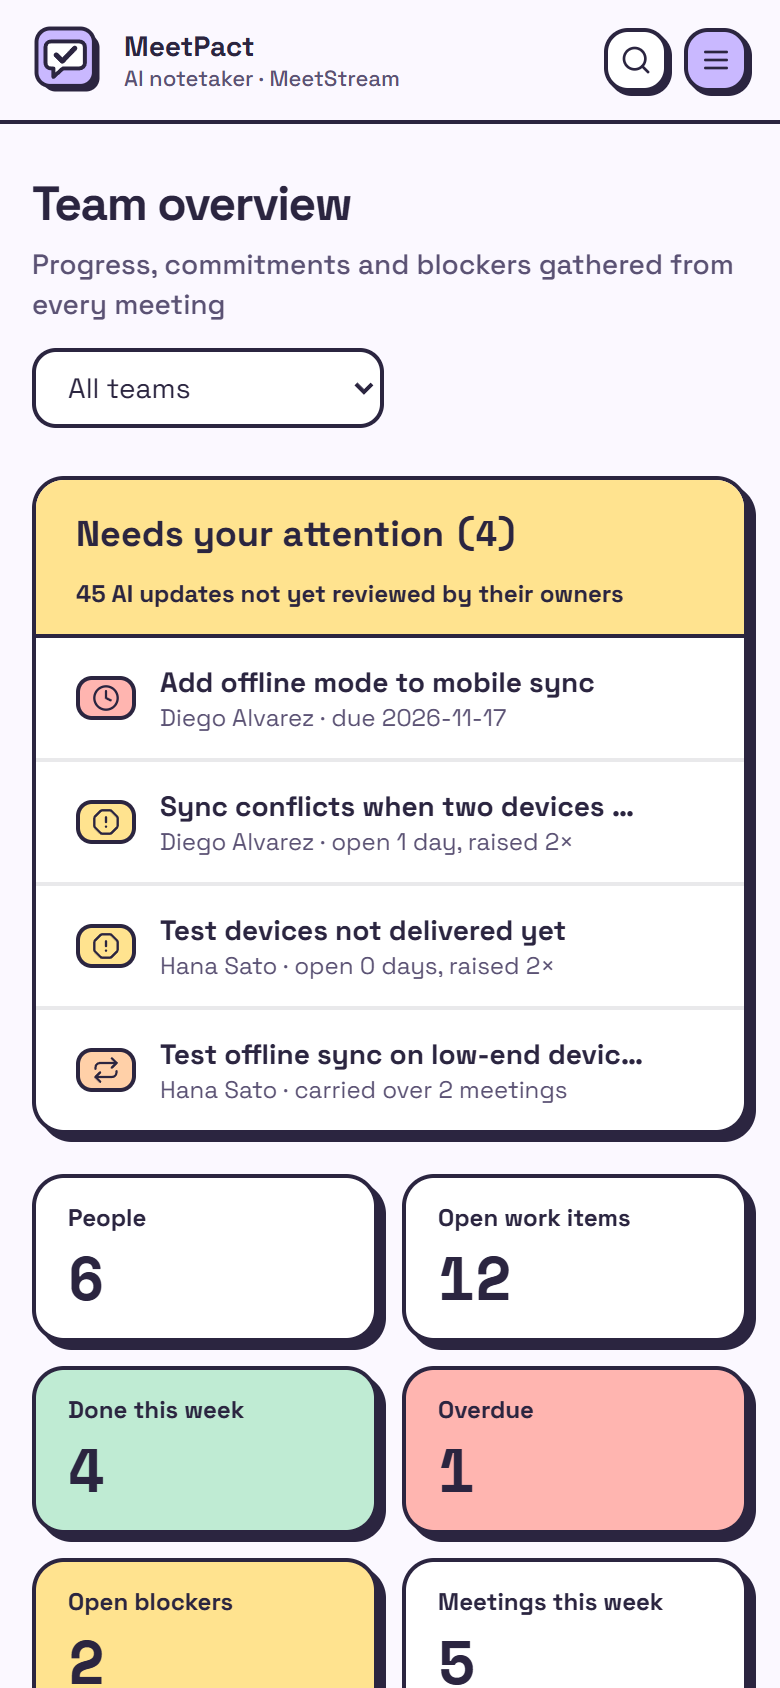
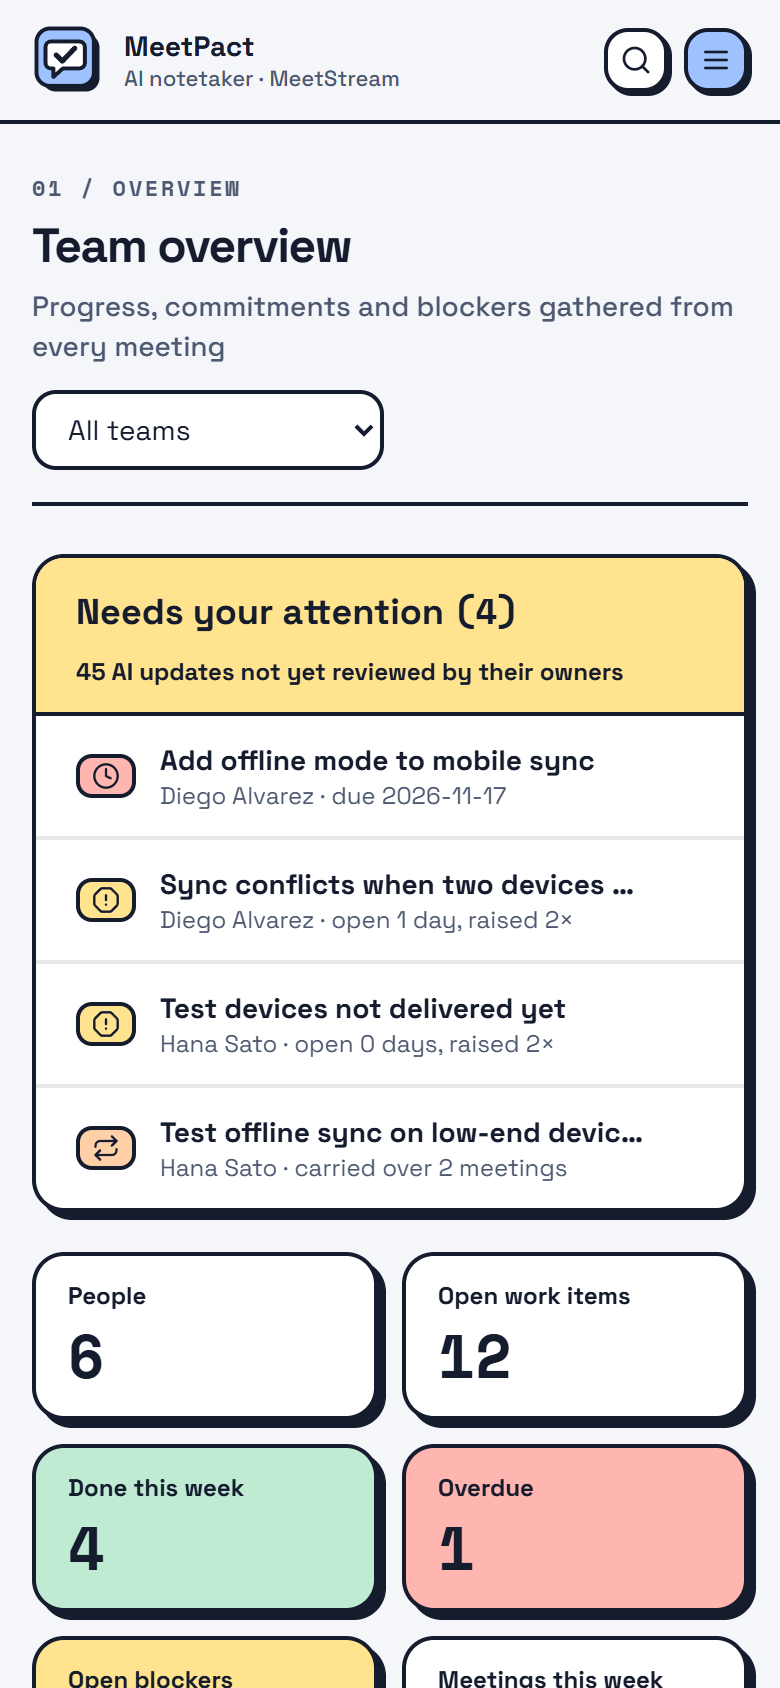
Cobalt mist palette with Swiss-grid page headers
- Brand colour is now soft cobalt (#9EC1FF) instead of lilac; ink is deep
  navy (#151C2E) for text, outlines and offset shadows; page and sidebar use
  cool blue-grey tints. Status colours keep their meanings.
- Swiss grid: every page header shows a mono section index ("03 / Work")
  above a flush-left title and closes with a 2px rule; the sidebar numbers
  its sections to match.
- Logo, favicon and README screenshots updated.

Changed region(s): [[0.0308, 0.0924, 0.9846, 1.0], [0.0308, 0.0, 0.1231, 0.0616], [0.8615, 0.0, 0.9538, 0.0616]]

diff --git a/frontend/tailwind.config.js b/frontend/tailwind.config.js
@@ -7,12 +7,12 @@ export default {
         sans: ['"Space Grotesk"', 'ui-sans-serif', 'system-ui', 'sans-serif'],
         mono: ['"Space Mono"', 'ui-monospace', 'SFMono-Regular', 'monospace'],
       },
-      // Soft & pastel neo-brutalism: hard offset shadows in a deep plum-ink
-      // instead of black, rounder corners, pastel fills.
+      // Soft Swiss-grid neo-brutalism ("Cobalt mist"): hard offset shadows in
+      // deep navy ink, rounded corners, pastel fills, strict grid.
       boxShadow: {
-        card: '4px 4px 0 0 #2B2540',
-        lift: '6px 6px 0 0 #2B2540',
-        press: '2px 2px 0 0 #2B2540',
+        card: '4px 4px 0 0 #151C2E',
+        lift: '6px 6px 0 0 #151C2E',
+        press: '2px 2px 0 0 #151C2E',
       },
       borderRadius: {
         DEFAULT: '0.5rem',
@@ -26,12 +26,12 @@ export default {
       },
       animation: { 'fade-up': 'fade-up 280ms cubic-bezier(0.2, 0.8, 0.2, 1) both', shimmer: 'shimmer 1.6s linear infinite' },
       colors: {
-        ink: { 50: '#FBF8FF', 100: '#F1ECFA', 200: '#E2DBF0', 300: '#C8BFDB', 400: '#9D93B5', 500: '#756B8E', 600: '#5B5274', 700: '#463E5D', 800: '#363049', 900: '#2E2842', 950: '#2B2540' },
-        brand: { 50: '#F3F0FF', 100: '#E6E0FF', 200: '#CEC3FF', 300: '#B3A3FB', 400: '#9A86F5', 500: '#8470EC', 600: '#6F5AD6', 700: '#5B47B5', 800: '#4A3B91', 900: '#3D3274' },
-        // One brand colour (accent: lilac). Every other pastel has one meaning:
+        ink: { 50: '#F4F6FA', 100: '#E8EDF5', 200: '#D5DDEA', 300: '#B7C3D6', 400: '#8B98AF', 500: '#66738B', 600: '#4D5970', 700: '#3A4559', 800: '#283247', 900: '#1C2438', 950: '#151C2E' },
+        brand: { 50: '#EEF4FF', 100: '#E1EAFB', 200: '#C7DAFF', 300: '#9EC1FF', 400: '#77A6F7', 500: '#4F86E8', 600: '#3A6ACB', 700: '#2E54A3', 800: '#26447F', 900: '#1F3662' },
+        // One brand colour (accent: cobalt). Every other pastel has one meaning:
         // yellow = blocked / needs attention, red = overdue / failed, mint = done,
         // sky = in progress / info, orange (peach) = keeps slipping.
-        accent: { DEFAULT: '#C9B8FF', soft: '#EDE7FF' },
+        accent: { DEFAULT: '#9EC1FF', soft: '#E1EAFB' },
         pop: { yellow: '#FFE38F', pink: '#FFC6DA', mint: '#BFEBD3', sky: '#C4E1FF', orange: '#FFD0A8', lilac: '#DCCFFF', red: '#FFB5B0' },
         // Readable text versions of the signal colours.
         signal: { red: '#B3261E', amber: '#8A5A00' },

diff --git a/frontend/src/components/ui.jsx b/frontend/src/components/ui.jsx
@@ -1,5 +1,6 @@
 import { useEffect, useState, useCallback } from 'react'
 import { X, Loader2, AlertTriangle } from 'lucide-react'
+import { useLocation } from 'react-router-dom'
 
 export function cx(...c) { return c.filter(Boolean).join(' ') }
 
@@ -198,10 +199,23 @@ export function Tabs({ tabs, value, onChange }) {
   )
 }
 
+// Swiss-grid section index shown above each page title ("03 / Work").
+export const SECTIONS = ['', 'me', 'board', 'ask', 'meetings', 'schedules', 'people', 'projects', 'reports', 'admin']
+const SECTION_NAMES = { '': 'Overview', me: 'Progress', board: 'Work', ask: 'Ask', meetings: 'Meetings', schedules: 'Schedules',
+  people: 'People', projects: 'Projects', reports: 'Reports', admin: 'Admin' }
+
+export function sectionIndex(pathname) {
+  const key = (pathname || '/').split('/')[1] || ''
+  const i = SECTIONS.indexOf(key)
+  return i < 0 ? null : { num: String(i + 1).padStart(2, '0'), name: SECTION_NAMES[key] }
+}
+
 export function PageHeader({ title, subtitle, actions }) {
+  const section = sectionIndex(useLocation().pathname)
   return (
-    <div className="mb-6 flex flex-wrap items-end justify-between gap-3">
-      <div>
+    <div className="mb-6 flex flex-wrap items-end justify-between gap-3 border-b-2 border-ink-950 pb-4">
+      <div className="min-w-0">
+        {section && <p className="mb-1 font-mono text-[11px] font-bold uppercase tracking-[0.12em] text-ink-600">{section.num} / {section.name}</p>}
         <h1 className="text-2xl font-bold tracking-[-0.03em] text-ink-950 sm:text-3xl">{title}</h1>
         {subtitle && <p className="mt-1 text-sm font-medium text-ink-600">{subtitle}</p>}
       </div>

diff --git a/frontend/src/components/AppShell.jsx b/frontend/src/components/AppShell.jsx
@@ -7,7 +7,7 @@ import {
 import { api } from '../api'
 import { useUser, useSetUser, isManager } from '../user'
 import CommandMenu from './CommandMenu'
-import { Avatar, cx } from './ui'
+import { Avatar, cx, sectionIndex } from './ui'
 
 function Logo() {
   return (
@@ -72,6 +72,7 @@ export default function AppShell({ children }) {
             className={({ isActive }) => cx('flex items-center gap-2.5 rounded-md border-2 px-3 py-1.5 text-sm font-bold transition-[background-color,box-shadow] duration-150 focus:outline-none focus-visible:outline focus-visible:outline-2 focus-visible:outline-offset-2 focus-visible:outline-brand-500',
               isActive ? 'border-ink-950 bg-accent text-ink-950 shadow-press' : 'border-transparent text-ink-800 hover:border-ink-950 hover:bg-white')}>
             <Icon className="h-4 w-4" strokeWidth={2.25} />{label}
+            <span className="ml-auto font-mono text-[10px] font-bold text-ink-500">{sectionIndex(to)?.num}</span>
           </NavLink>
         ))}
       </nav>
@@ -113,7 +114,7 @@ export default function AppShell({ children }) {
       )}
 
       {/* Desktop sidebar */}
-      <aside className="sticky top-0 hidden h-[100dvh] w-60 shrink-0 flex-col border-r-2 border-ink-950 bg-pop-lilac/30 lg:flex">
+      <aside className="sticky top-0 hidden h-[100dvh] w-60 shrink-0 flex-col border-r-2 border-ink-950 bg-accent-soft lg:flex">
         <div className="px-5 py-5"><Logo /></div>
         {sidebar}
       </aside>
